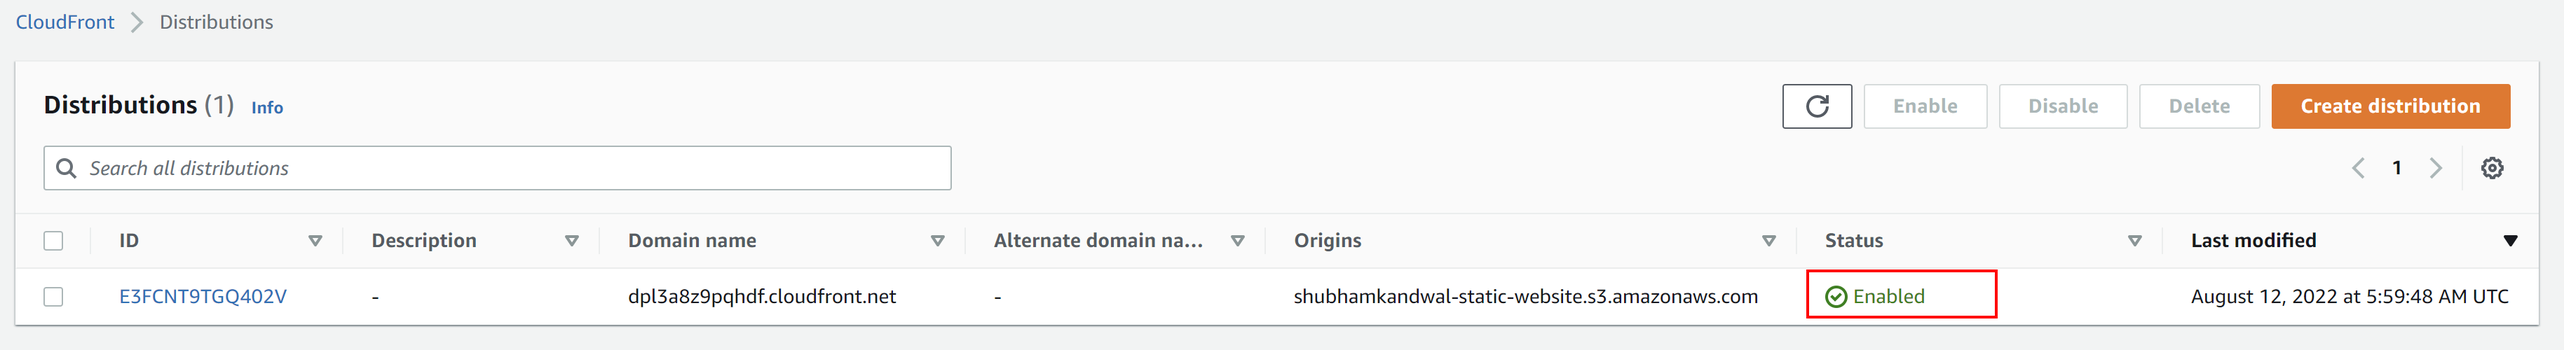
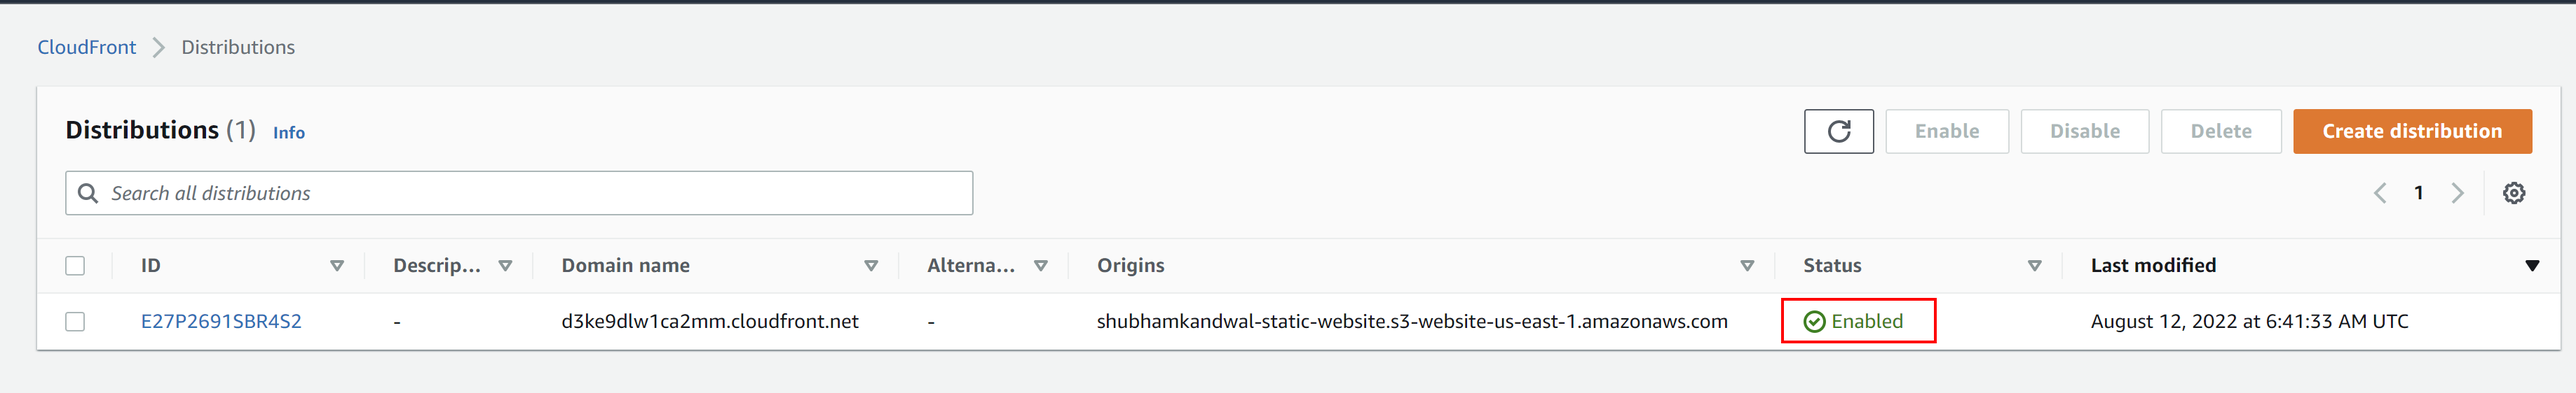
Updated README and CloudFront link

diff --git a/README.md b/README.md
@@ -128,8 +128,8 @@ Here are the steps needed to successfully finish this project.
 
 6. ***Accessing the Website***
     * The website can be accessed using the following links :
-        * <b>Cloudfront Link - [dpl3a8z9pqhdf.cloudfront.net](https://dpl3a8z9pqhdf.cloudfront.net)</b>
-        * <b>Bucket Website Endpoint - [shubhamkandwal-static-website.s3.amazonaws.com](https://shubhamkandwal-static-website.s3.amazonaws.com)</b>
+        * <b>Cloudfront Link - [d3ke9dlw1ca2mm.cloudfront.net](https://d3ke9dlw1ca2mm.cloudfront.net)</b>
+        * <b>Bucket Website Endpoint - [shubhamkandwal-static-website.s3.amazonaws.com](http://shubhamkandwal-static-website.s3-website-us-east-1.amazonaws.com/)</b>
         * <b>S3 Object endpoint URL - [shubhamkandwal-static-website.s3.amazonaws.com/index.html ](https://shubhamkandwal-static-website.s3.amazonaws.com/index.html)</b>
 
 <p align="right">(<a href="#readme-top">back to top</a>)</p>
